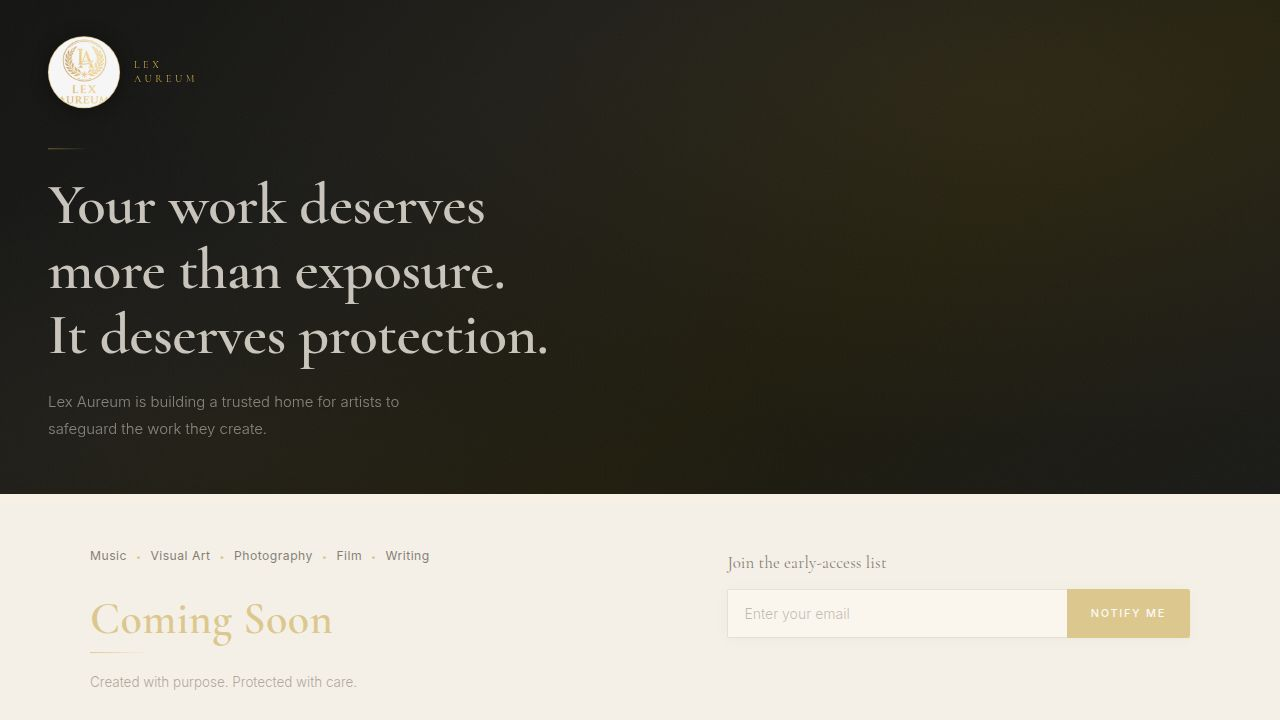
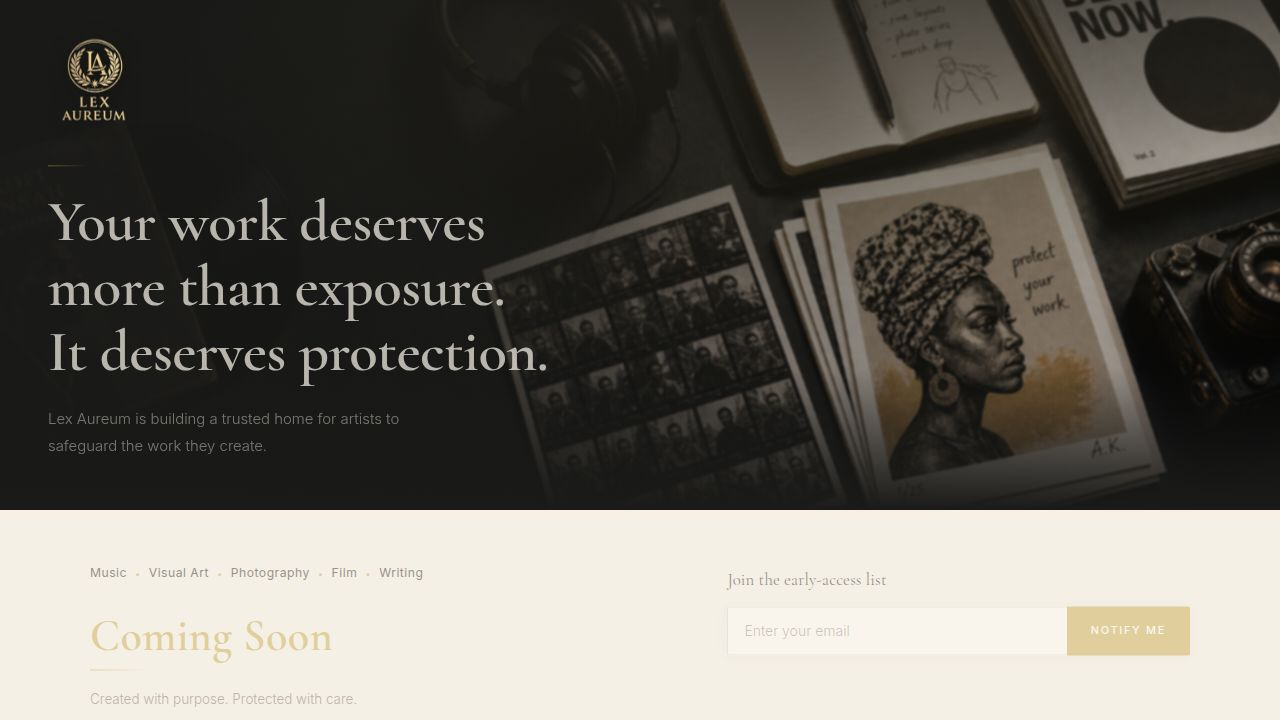
Add system for collecting user signups via email
Introduces a new API endpoint for email signups, updates the frontend form to handle submission with loading and error states, and adds a database schema for storing waitlist entries.

Replit-Commit-Author: Agent
Replit-Commit-Session-Id: 66290541-7205-4352-9949-adf08787e69d
Replit-Commit-Checkpoint-Type: full_checkpoint
Replit-Commit-Event-Id: 41e96a27-28df-44df-9f1f-33783956b1c7
Replit-Commit-Screenshot-Url: https://storage.googleapis.com/screenshot-production-us-central1/3b8f0890-ee87-4b2c-aa68-6a2a9f24fef3/66290541-7205-4352-9949-adf08787e69d/bZGa5mF
Replit-Helium-Checkpoint-Created: true

diff --git a/artifacts/lex-aureum/src/App.tsx b/artifacts/lex-aureum/src/App.tsx
@@ -22,10 +22,30 @@ const fadeUp = {
 export default function App() {
   const [email, setEmail] = useState("");
   const [notified, setNotified] = useState(false);
+  const [loading, setLoading] = useState(false);
+  const [error, setError] = useState<string | null>(null);
 
-  const handleNotify = () => {
-    if (email.trim()) {
-      setNotified(true);
+  const handleNotify = async () => {
+    const trimmed = email.trim();
+    if (!trimmed) return;
+    setError(null);
+    setLoading(true);
+    try {
+      const res = await fetch("/api/waitlist", {
+        method: "POST",
+        headers: { "Content-Type": "application/json" },
+        body: JSON.stringify({ email: trimmed }),
+      });
+      if (res.ok) {
+        setNotified(true);
+      } else {
+        const data = await res.json().catch(() => ({}));
+        setError(data.error ?? "Something went wrong. Please try again.");
+      }
+    } catch {
+      setError("Could not connect. Please try again.");
+    } finally {
+      setLoading(false);
     }
   };
 
@@ -366,6 +386,7 @@ export default function App() {
                 <button
                   data-testid="button-notify"
                   onClick={handleNotify}
+                  disabled={loading}
                   style={{
                     fontFamily: SANS,
                     fontSize: "0.68rem",
@@ -373,24 +394,36 @@ export default function App() {
                     letterSpacing: "0.16em",
                     textTransform: "uppercase",
                     color: "#fff",
-                    background: GOLD,
+                    background: loading ? "#b8973d" : GOLD,
                     border: "none",
                     borderRadius: "0 2px 2px 0",
                     padding: "0.8rem 1.5rem",
-                    cursor: "pointer",
+                    cursor: loading ? "default" : "pointer",
                     flexShrink: 0,
                     transition: "background 0.18s ease",
+                    opacity: loading ? 0.75 : 1,
                   }}
-                  onMouseEnter={(e) =>
-                    (e.currentTarget.style.background = "#b8973d")
-                  }
-                  onMouseLeave={(e) =>
-                    (e.currentTarget.style.background = GOLD)
-                  }
+                  onMouseEnter={(e) => {
+                    if (!loading) e.currentTarget.style.background = "#b8973d";
+                  }}
+                  onMouseLeave={(e) => {
+                    if (!loading) e.currentTarget.style.background = GOLD;
+                  }}
                 >
-                  Notify me
+                  {loading ? "…" : "Notify me"}
                 </button>
               </div>
+            )}
+            {error && (
+              <p style={{
+                fontFamily: SANS,
+                fontSize: "0.78rem",
+                color: "#b04040",
+                marginTop: "0.5rem",
+                fontWeight: 300,
+              }}>
+                {error}
+              </p>
             )}
           </div>
         </div>

diff --git a/artifacts/api-server/src/routes/waitlist.ts b/artifacts/api-server/src/routes/waitlist.ts
@@ -1,0 +1,36 @@
+import { Router, type IRouter } from "express";
+import { db, waitlistTable, insertWaitlistSchema } from "@workspace/db";
+import { eq } from "drizzle-orm";
+
+const router: IRouter = Router();
+
+router.post("/waitlist", async (req, res) => {
+  const result = insertWaitlistSchema.safeParse(req.body);
+
+  if (!result.success) {
+    res.status(400).json({ error: "A valid email address is required." });
+    return;
+  }
+
+  const { email } = result.data;
+
+  try {
+    const existing = await db
+      .select()
+      .from(waitlistTable)
+      .where(eq(waitlistTable.email, email))
+      .limit(1);
+
+    if (existing.length > 0) {
+      res.status(200).json({ status: "already_registered" });
+      return;
+    }
+
+    await db.insert(waitlistTable).values({ email });
+    res.status(201).json({ status: "ok" });
+  } catch (err) {
+    res.status(500).json({ error: "Something went wrong. Please try again." });
+  }
+});
+
+export default router;

diff --git a/lib/db/src/schema/index.ts b/lib/db/src/schema/index.ts
@@ -1,20 +1,1 @@
-// Export your models here. Add one export per file
-// export * from "./posts";
-//
-// Each model/table should ideally be split into different files.
-// Each model/table should define a Drizzle table, insert schema, and types:
-//
-//   import { pgTable, text, serial } from "drizzle-orm/pg-core";
-//   import { createInsertSchema } from "drizzle-zod";
-//   import { z } from "zod/v4";
-//
-//   export const postsTable = pgTable("posts", {
-//     id: serial("id").primaryKey(),
-//     title: text("title").notNull(),
-//   });
-//
-//   export const insertPostSchema = createInsertSchema(postsTable).omit({ id: true });
-//   export type InsertPost = z.infer<typeof insertPostSchema>;
-//   export type Post = typeof postsTable.$inferSelect;
-
-export {}
+export * from "./waitlist";

diff --git a/lib/db/src/schema/waitlist.ts b/lib/db/src/schema/waitlist.ts
@@ -1,0 +1,20 @@
+import { pgTable, serial, text, timestamp, unique } from "drizzle-orm/pg-core";
+import { createInsertSchema } from "drizzle-zod";
+import { z } from "zod/v4";
+
+export const waitlistTable = pgTable(
+  "waitlist",
+  {
+    id: serial("id").primaryKey(),
+    email: text("email").notNull(),
+    createdAt: timestamp("created_at").defaultNow().notNull(),
+  },
+  (table) => [unique("waitlist_email_unique").on(table.email)],
+);
+
+export const insertWaitlistSchema = createInsertSchema(waitlistTable, {
+  email: z.email(),
+}).omit({ id: true, createdAt: true });
+
+export type InsertWaitlist = z.infer<typeof insertWaitlistSchema>;
+export type Waitlist = typeof waitlistTable.$inferSelect;

diff --git a/artifacts/lex-aureum/vite.config.ts b/artifacts/lex-aureum/vite.config.ts
@@ -66,6 +66,12 @@ export default defineConfig({
     fs: {
       strict: true,
     },
+    proxy: {
+      "/api": {
+        target: "http://localhost:8080",
+        changeOrigin: true,
+      },
+    },
   },
   preview: {
     port,

diff --git a/artifacts/api-server/src/routes/index.ts b/artifacts/api-server/src/routes/index.ts
@@ -1,8 +1,10 @@
 import { Router, type IRouter } from "express";
 import healthRouter from "./health";
+import waitlistRouter from "./waitlist";
 
 const router: IRouter = Router();
 
 router.use(healthRouter);
+router.use(waitlistRouter);
 
 export default router;